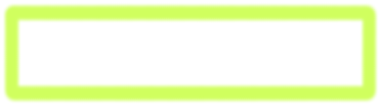
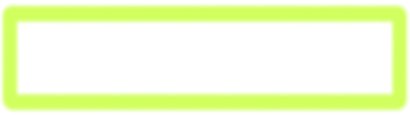
mnoznik. nowa grafika.

Changed region(s): [[0.9263, 0.0571, 1.0, 0.9429], [0.0, 0.0286, 0.0579, 0.9714]]

diff --git a/konfiguracja.py b/konfiguracja.py
@@ -19,8 +19,9 @@ class Odpowiedz:
     self.punkty=punkty
 
 class Runda:
-  def __init__(self,pytanie,odpowiedzi):
+  def __init__(self,pytanie,mnoznik,odpowiedzi):
     self.pytanie=pytanie
+    self.mnoznik=mnoznik
     self.odpowiedzi=odpowiedzi
 
 class Dane:
@@ -88,6 +89,7 @@ class Dane:
      self.crd_bledy_odstep,
      self.crd_punkty_druzyn[0],
      self.crd_punkty_druzyn[1],
+     self.crd_punkty_przemnozone,
      self.crd_punkty_suma_napis,
      self.crd_punkty_suma_punkty,
      self.crd_nazwy_druzyn[0],
@@ -103,6 +105,7 @@ class Dane:
                sekcja['bledy']['odstep'],
          tuple(sekcja['punkty']['druzyna_0']),
          tuple(sekcja['punkty']['druzyna_1']),
+         tuple(sekcja['punkty']['punkty_przemnozone']),
          tuple(sekcja['punkty']['suma_napis']),
          tuple(sekcja['punkty']['suma_punkty']),
          tuple(sekcja['nazwy_druzyn']['druzyna_0']),
@@ -126,6 +129,7 @@ class Dane:
     self.nazwy_druzyn=(rundy_dane_z_yaml['nazwy_druzyn']['druzyna_0'],
                        rundy_dane_z_yaml['nazwy_druzyn']['druzyna_1'])
     self.rundy=[ Runda(pytanie=runda['pytanie'], \
+                       mnoznik=runda['mnoznik'], \
                        odpowiedzi=[ Odpowiedz(tresc=odpowiedz['odp'], punkty=odpowiedz['pkt']) \
                                     for odpowiedz in runda['odpowiedzi'] ] ) \
                  for runda in rundy_dane_z_yaml['rundy'] ]
@@ -135,6 +139,9 @@ def liczba_odpowiedzi(numer_rundy):
 
 def liczba_punktow(numer_rundy,numer_odpowiedzi):
   return dane.rundy[numer_rundy].odpowiedzi[numer_odpowiedzi].punkty
+
+def mnoznik(numer_rundy):
+  return dane.rundy[numer_rundy].mnoznik
 
 def stworz_ekran(rozmiar=None):
   if rozmiar is None:

diff --git a/stan.py b/stan.py
@@ -1,7 +1,7 @@
 #!/usr/bin/python
 # -*- coding: utf-8 -*-
 
-from konfiguracja import liczba_odpowiedzi, liczba_punktow
+from konfiguracja import liczba_odpowiedzi, liczba_punktow, mnoznik
 import copy
 
 MAX_POZIOMY_UNDO=8000
@@ -58,7 +58,7 @@ class Stan:
 
   def zakoncz_runde(self,numer_druzyny_wygrywajacej):
     if not self.koniec_rundy:
-      self.liczniki_punktow[numer_druzyny_wygrywajacej]+=self.punkty_biezace
+      self.liczniki_punktow[numer_druzyny_wygrywajacej]+=self.punkty_przemnozone()
       self.punkty_biezace=0
       self.koniec_rundy=True
       self.biezaca_druzyna=None
@@ -97,6 +97,9 @@ class Stan:
       opis_stanu=poprzednie_stany.pop()
       for n, v in opis_stanu.items():
         setattr(self, n, v)
+
+  def punkty_przemnozone(self):
+    return mnoznik(self.ktora_runda) * self.punkty_biezace
 
 stan=Stan()
 poprzednie_stany=[]

diff --git a/gra.py b/gra.py
@@ -34,6 +34,8 @@ def pokaz_punkty():
   # suma punktów w bieżącej rundzie
   pokaz_tekst(tresc=dane.txt_suma,xy=dane.crd_punkty_suma_napis)
   pokaz_tekst(tresc=str(stan.punkty_biezace),xy=dane.crd_punkty_suma_punkty)
+  # suma punktów przemnożona przez mnożnik
+  pokaz_tekst(tresc=str(stan.punkty_przemnozone()), xy=dane.crd_punkty_przemnozone, czcionka=dane.fnt_punkty_druzyn)
   # punkty drużyn
   for ktora_druzyna in [0,1]:
     pokaz_tekst(tresc=str(stan.liczniki_punktow[ktora_druzyna]),xy=dane.crd_punkty_druzyn[ktora_druzyna],czcionka=dane.fnt_punkty_druzyn)
